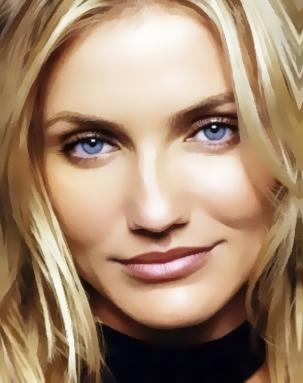
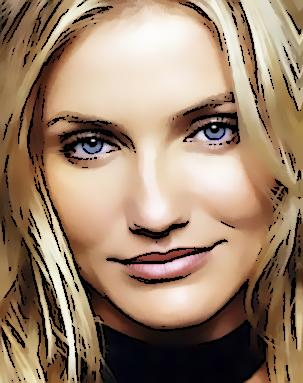
SMALL CHANGES

diff --git a/main.m b/main.m
@@ -3,7 +3,7 @@ I=imread('pic/1.jpg');
 I=double(I)/255;
 
 w     = 5;       % bilateral filter half-width
-sigma = [7 0.0425]; % bilateral filter standard deviations
+sigma = [10 0.0425]; % bilateral filter standard deviations
 
 I1=bfilter2(I,w,sigma);
 I1=bfilter2(I1,w,sigma);
@@ -13,5 +13,5 @@ I2 = DoG(I1,1.0,1.27,0.98);
 I3 = tanh(I2);
 I4 = combine(I1,I3);
 imshow(I4);
-imwrite(I1,'result.jpg');
+imwrite(I4,'result.jpg');
 end

diff --git a/DoG.m b/DoG.m
@@ -2,15 +2,5 @@ function d = DoG(img,sigma1,sigma2,t)
     gaussian1 = fspecial('gaussian',5,sigma1);
     gaussian2 = fspecial('gaussian',5,sigma2);
     d = imfilter(img,gaussian1) - imfilter(img,gaussian2) * t;
-    [h,w,c] = size(d);
-    for i=1:h
-        for j=1:w
-            for k=1:c
-                if d(i,j,k) > 0
-                    d(i,j,k) = 1;
-                end
-            end
-        end
-    end
     
 end

diff --git a/bfilter2.m b/bfilter2.m
@@ -28,7 +28,7 @@ w = ceil(w);
 % Verify bilateral filter standard deviations.
 if ~exist('sigma','var') || isempty(sigma) || ...
       numel(sigma) ~= 2 || sigma(1) <= 0 || sigma(2) <= 0
-   sigma = [3 0.1];
+   sigma = [3 3];
 end
 
 % Apply either grayscale or color bilateral filtering.

diff --git a/combine.m b/combine.m
@@ -3,7 +3,7 @@ function r = combine(img1,img2)
     for i=1:h
         for j=1:w
             for k=1:c
-                if img2(i,j,k) < 1
+                if img2(i,j,k) < 0
                     r(i,j,1:end) = 0;
                 else
                     r(i,j,k) = img1(i,j,k);
